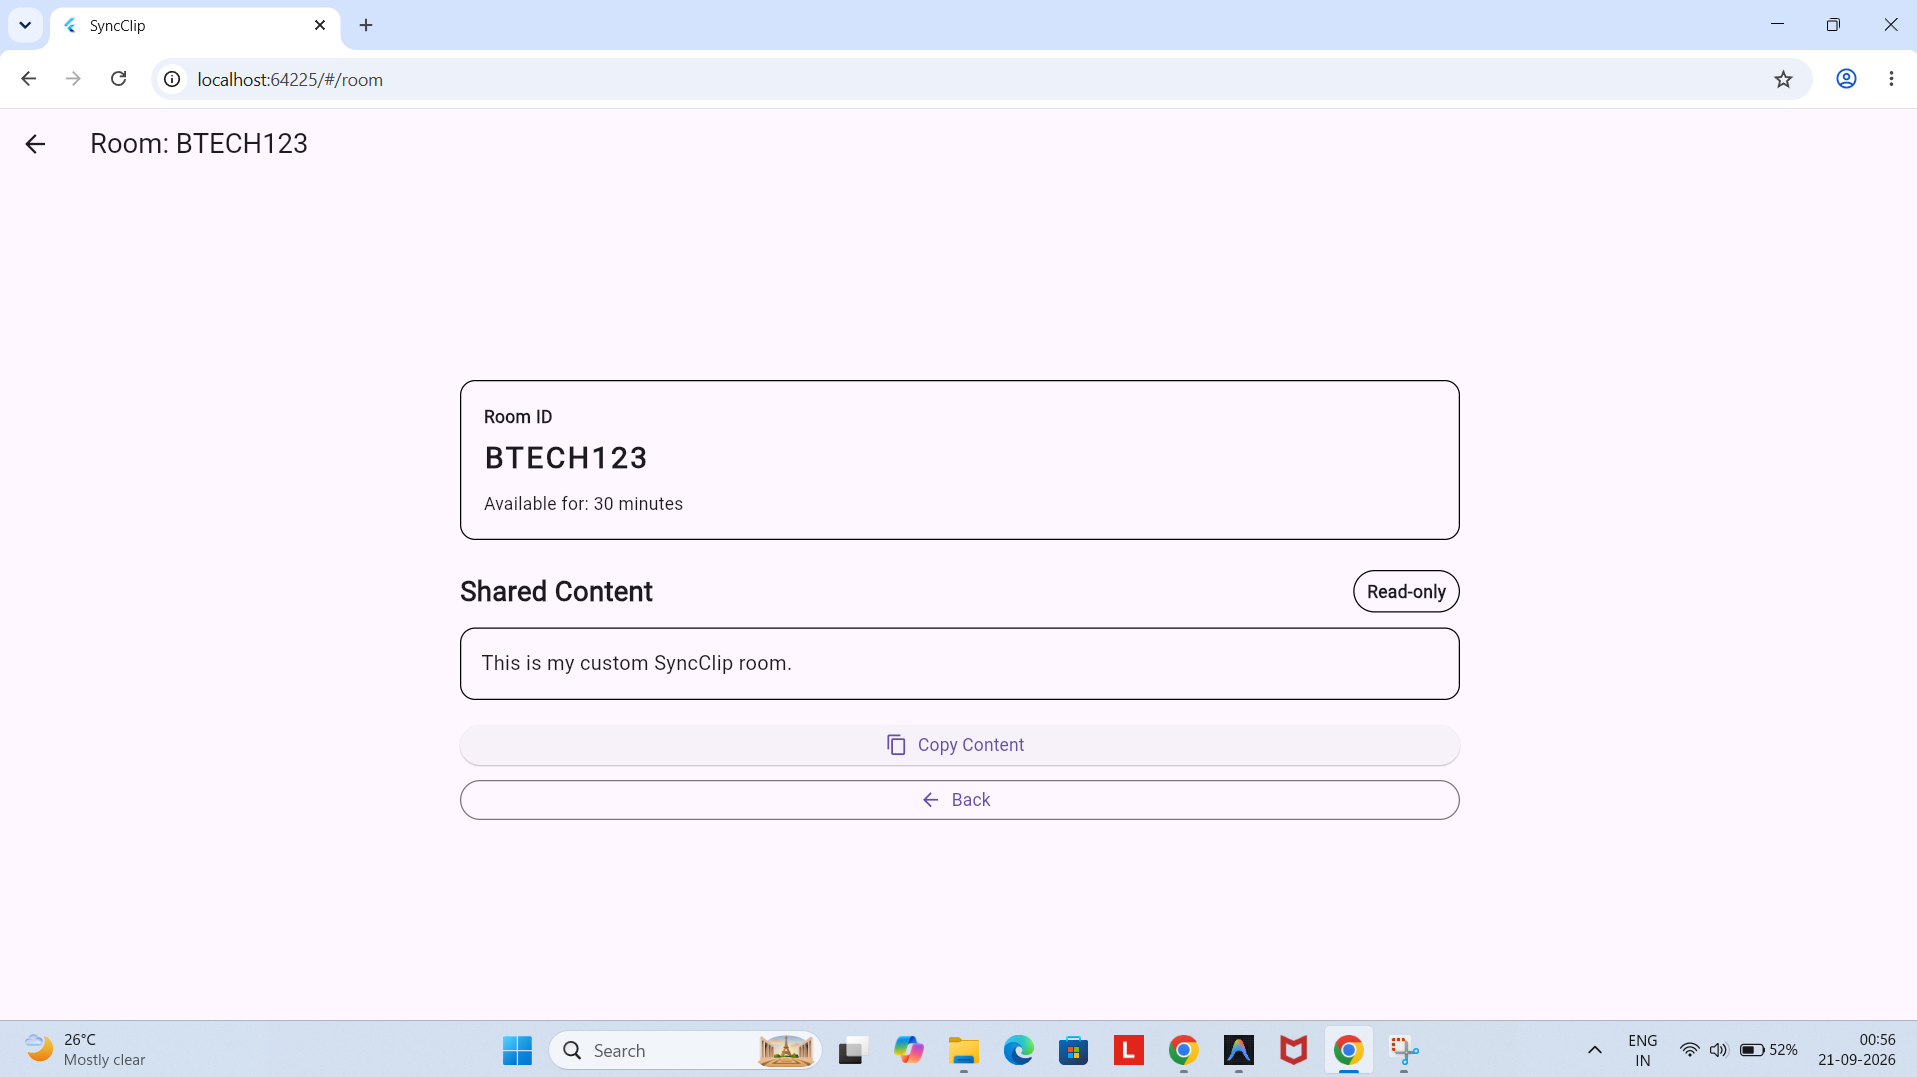
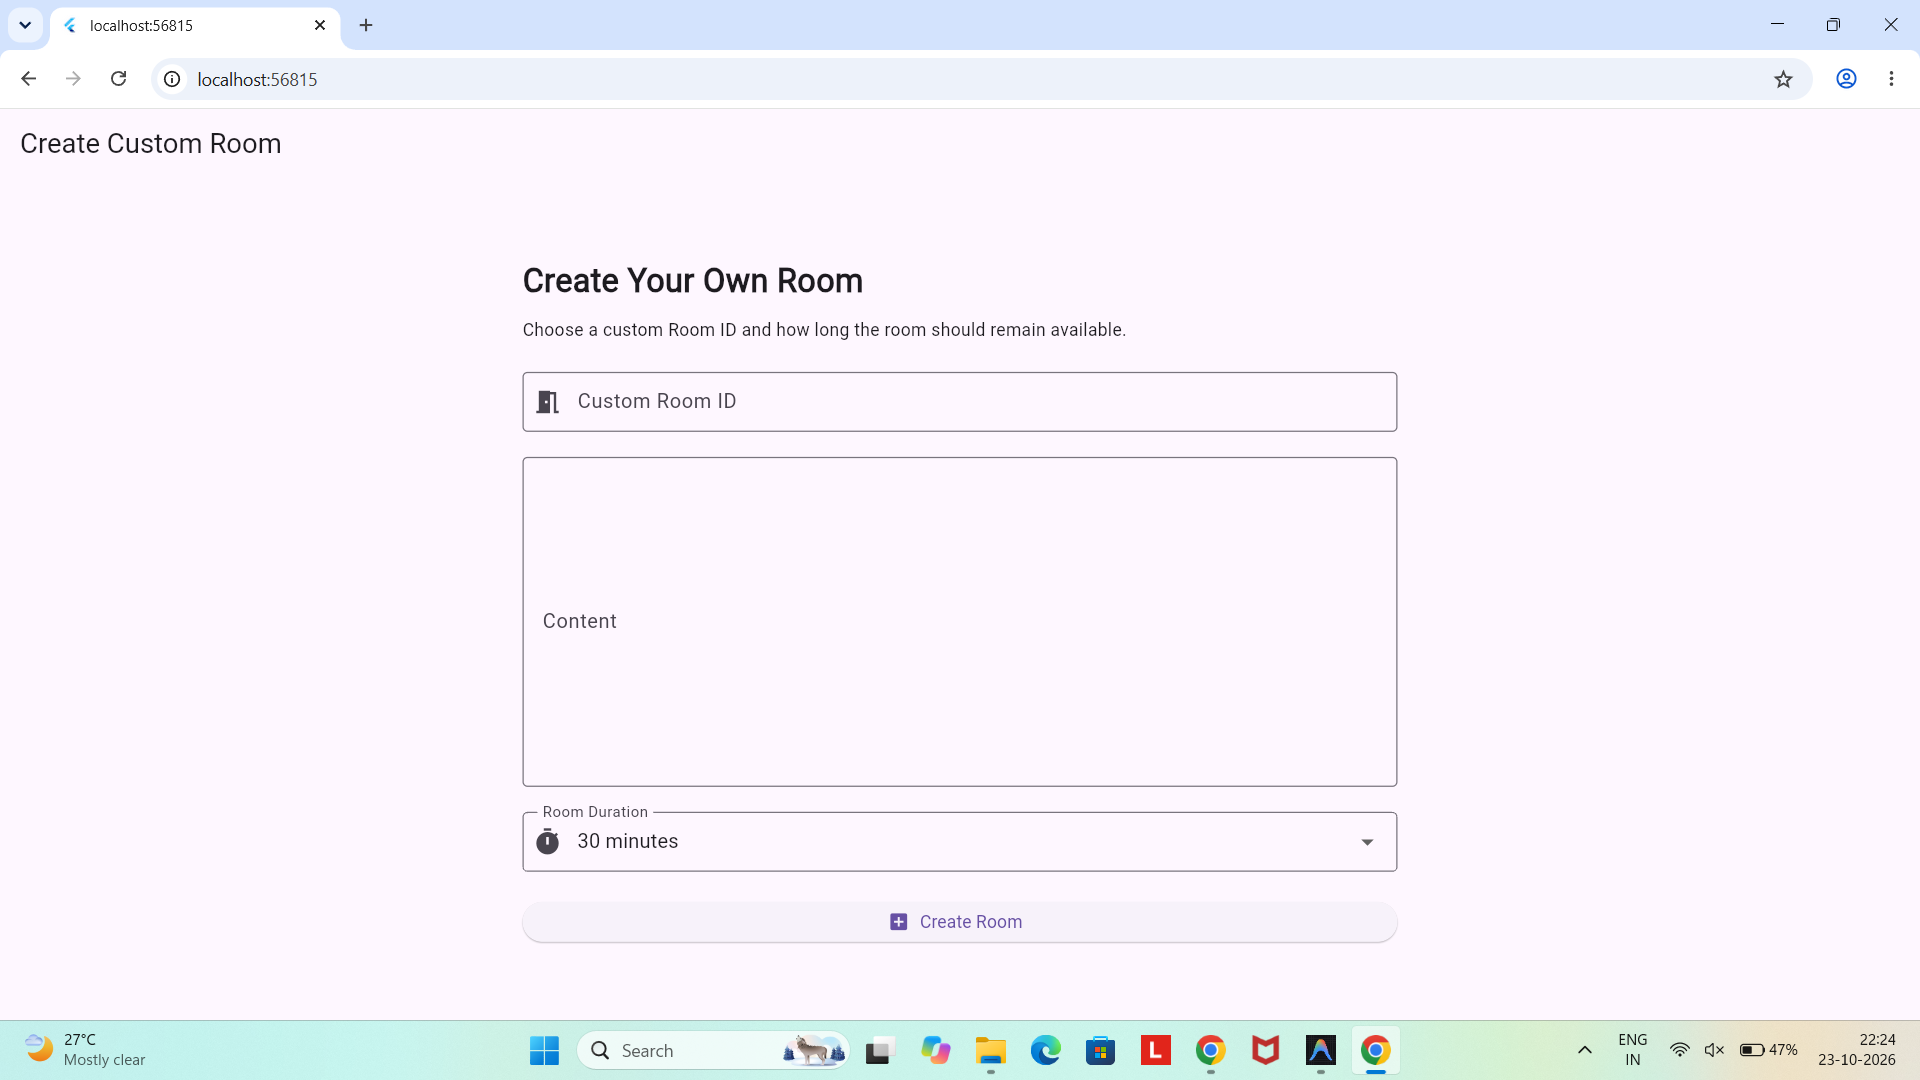
made corrections and Update README and screen screenshots

diff --git a/README.md b/README.md
@@ -1,90 +1,259 @@
 # SyncClip
 
-SyncClip is a Flutter-based clipboard sharing prototype designed to demonstrate
-sharing text, messages, and code between users through temporary rooms.
+SyncClip is a Flutter-based clipboard sharing prototype designed to demonstrate sharing text, messages, and code between users through temporary rooms.
 
-## Project Description
+## About My Project
 
-SyncClip allows a user to create a room and share a Room ID with another user.
-The room interface allows the shared content to be viewed and copied.
+SyncClip is a Flutter application prototype for sharing text, messages, and code through rooms. I explored how users can enter content, generate or choose a Room ID, and move between different screens to view and copy content.
 
-The current version is a frontend prototype developed using Flutter and
-demonstrates the Flutter concepts covered up to Experiment 4(b).
+This project helped me understand how a Flutter application is organised and how its screens are connected.
 
 ## Features
 
-- Send text, messages, and code
-- Automatically generate a temporary Room ID
-- Create a custom Room ID
-- Select room duration
-- Join an existing room using a Room ID
-- View shared content
-- Copy shared content to the clipboard
-- Read-only room interface
-- Responsive interface for different screen sizes
-- Named route navigation
+Home Screen: Provides options to send content, join a room, or create a custom room.
+Send Screen: Accepts text or code and generates a Room ID.
+Custom Room: Allows users to enter their own Room ID and select a duration.
+Join Room: Allows users to enter a Room ID and open the room screen.
+Room Screen: Displays available content and provides a copy-to-clipboard option.
+Responsive Layout: The home screen adjusts its button arrangement for different screen widths.
+Screen Navigation: Connects the app screens using named routes.
 
-## Technologies Used
+## Flutter Widgets and Concepts Observed in My Project
 
-- Flutter
-- Dart
-- Material Design
-- Flutter Navigator
-- MediaQuery
-- Clipboard API
+### StatelessWidget
+
+In my project, `SyncClipApp` in `lib/main.dart` uses StatelessWidget. I observed that it sets up the MaterialApp and defines the routes used to navigate between the different screens.
+
+Code used in my project:
+
+```dart
+class SyncClipApp extends StatelessWidget {
+  const SyncClipApp({super.key});
+
+  @override
+  Widget build(BuildContext context) {
+    return MaterialApp(
+```
+
+Output Screenshot:
+
+The home screen of SyncClip shows the output of the application setup, with options to Send, Join Room, and Create Custom Room.
+
+![SyncClip Home Screen](screenshotsss/home.png)
+
+### StatefulWidget
+
+In my project, `SendScreen` in `lib/screens/send_screen.dart` uses `StatefulWidget`. I observed that it allows the screen to update when the user interacts with it, such as generating a Room ID.
+
+Code used in my project:
+
+```dart
+class SendScreen extends StatefulWidget {
+  const SendScreen({super.key});
+
+  @override
+  State<SendScreen> createState() => _SendScreenState();
+}
+```
+
+Output Screenshot:
+
+The Send screen allows the user to enter content and generate a Room ID.
+
+![SyncClip Send Screen](screenshotsss/send.png)
+
+
+### setState()
+
+In my project, I used `setState()` in `send_screen.dart` to update the screen after generating a Room ID. When the user enters content and sends it, the generated Room ID is stored in the `roomId` variable.
+
+Code used in my project:
+
+```dart
+setState(() {
+  roomId = generateRoomId();
+});
+```
+
+Output Screenshot:
+
+The Send screen displays the generated Room ID after the user enters content and proceeds.
+
+![SyncClip Send Screen](screenshotsss/send.png)
+
+
+### TextEditingController
+
+In my project, I used `TextEditingController` in `send_screen.dart` to access the text entered by the user before generating a Room ID.
+
+Code used in my project:
+
+```dart
+final TextEditingController contentController =
+    TextEditingController();
+```
+
+Output Screenshot:
+
+The Send screen contains a text field where the user can enter content to share.
+
+![SyncClip Send Screen](screenshotsss/send.png)
+
+
+### Navigator and Named Routes
+
+In my project, I used named routes in `main.dart` to connect the five screens. The `Navigator.pushNamed()` method allows users to move to another screen when they select an option.
+
+Code used in my project:
+
+```dart
+initialRoute: '/',
+
+routes: {
+  '/': (context) => const HomeScreen(),
+  '/send': (context) => const SendScreen(),
+  '/custom-room': (context) => const CustomRoomScreen(),
+  '/join': (context) => const JoinRoomScreen(),
+  '/room': (context) => const RoomScreen(),
+},
+```
+
+Output Screenshot:
+
+The home screen provides options to navigate to the Send, Join Room, and Create Custom Room screens.
+
+![SyncClip Home Screen](screenshotsss/home.png)
+![SyncClip Home Screen](screenshotsss/room.png)
+
+
+### MediaQuery and Responsive Layout
+
+In my project, I used `MediaQuery` in `home_screen.dart` to check the screen width. The layout displays buttons in a column on mobile-sized screens and in a row on wider screens.
+
+Code used in my project:
+
+```dart
+final screenWidth = MediaQuery.of(context).size.width;
+final isMobile = screenWidth < 600;
+```
+
+Output Screenshot:
+
+The home screen adjusts its button layout based on the available screen width.
+
+![SyncClip Home Screen](screenshotsss/home.png)
+
+
+### ElevatedButton.icon
+
+In my project, I used `ElevatedButton.icon` in `home_screen.dart` to create buttons with icons and labels. These buttons allow users to navigate to different screens.
+
+Code used in my project:
+
+```dart
+ElevatedButton.icon(
+  onPressed: () {
+    Navigator.pushNamed(context, route);
+  },
+  icon: Icon(icon),
+  label: Text(title),
+)
+```
+
+Output Screenshot:
+
+The home screen displays buttons for Send, Create Custom Room, and Join Room.
+
+![SyncClip Home Screen](screenshotsss/home.png)
+
+
+### Clipboard.setData()
+
+In my project, I used `Clipboard.setData()` in `room_screen.dart` to copy the displayed content to the clipboard when the user presses the Copy Content button.
+
+Code used in my project:
+
+```dart
+await Clipboard.setData(
+  ClipboardData(text: content.toString()),
+);
+```
+
+Output Screenshot:
+
+The Room screen provides a Copy Content button to copy the shared text.
+
+![SyncClip Room Screen](screenshotsss/room.png)
+
+
+### SelectableText()
+
+In my project, I used `SelectableText()` in `room_screen.dart` to display the shared content and allow users to select and copy text directly from the screen.
+
+Code used in my project:
+
+```dart
+SelectableText(
+  content.toString(),
+  style: const TextStyle(fontSize: 16, height: 1.5),
+),
+```
+
+Output Screenshot:
+
+![SyncClip Room Screen](screenshotsss/room.png)
+
+
+### SingleChildScrollView()
+
+In my project, I used `SingleChildScrollView()` in `room_screen.dart` to allow users to scroll through the room content when it does not fit on the screen.
+
+Code used in my project:
+
+```dart
+SingleChildScrollView(
+  padding: const EdgeInsets.all(24),
+  child: ConstrainedBox(
+    constraints: const BoxConstraints(maxWidth: 800),
+    child: Column(
+      // Room screen content
+    ),
+  ),
+),
+```
+
+Output Screenshot:
+
+![SyncClip Room Screen](screenshotsss/room.png)
+
+
+## Screenshots
+
+### Home Screen
+![SyncClip Home Screen](screenshotsss/home.png)
+
+### Send Screen
+![SyncClip Send Screen](screenshotsss/send.png)
+
+### Join Room Screen
+![SyncClip Join Room Screen](screenshotsss/join_room.png)
+
+### Custom Room Screen
+![SyncClip Custom Room Screen](screenshotsss/custom.png)
+
+### Room Screen
+![SyncClip Room Screen](screenshotsss/room.png)
+
 
 ## Project Structure
 
 ```text
 lib/
 ├── main.dart
-├── screens/
-│   ├── home_screen.dart
-│   ├── send_screen.dart
-│   ├── custom_room_screen.dart
-│   ├── join_room_screen.dart
-│   └── room_screen.dart
-└── experiments/
-    ├── exp1.dart
-    ├── exp2a.dart
-    ├── exp2b.dart
-    ├── exp3a.dart
-    ├── exp3b.dart
-    ├── exp4a.dart
-    └── exp4b.dart
-
-
-
-    ## Flutter Concepts Demonstrated
-
-### Experiment 1
-Dart programming basics.
-
-### Experiment 2(a)
-Flutter widgets and basic user interface construction.
-
-### Experiment 2(b)
-Row, Column, and Stack layouts.
-
-### Experiment 3(a)
-Responsive Flutter user interfaces.
-
-### Experiment 3(b)
-MediaQuery and screen-size breakpoints.
-
-### Experiment 4(a)
-Navigator push and pop operations.
-
-### Experiment 4(b)
-Named routes using `initialRoute`, `routes`, and
-`Navigator.pushNamed()`.
-
-## How to Run
-
-Clone the repository and open the project in a Flutter-supported IDE.
-
-Run:
-
-```bash
-flutter pub get
-flutter run
+└── screens/
+    ├── home_screen.dart
+    ├── send_screen.dart
+    ├── custom_room_screen.dart
+    ├── join_room_screen.dart
+    └── room_screen.dart
+```
